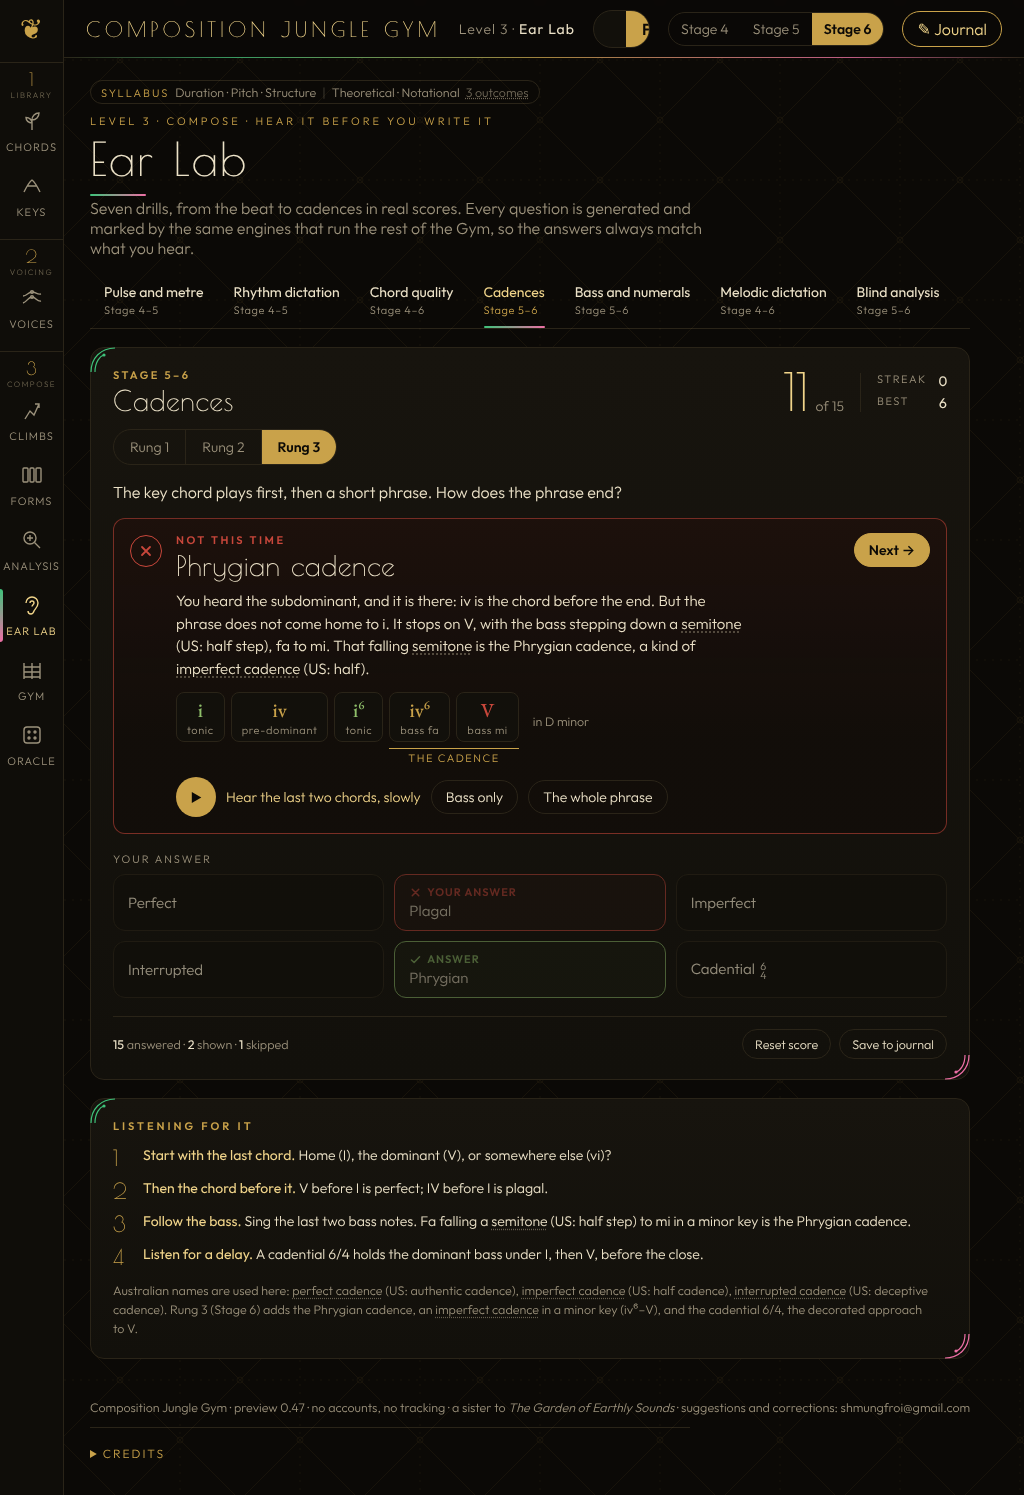
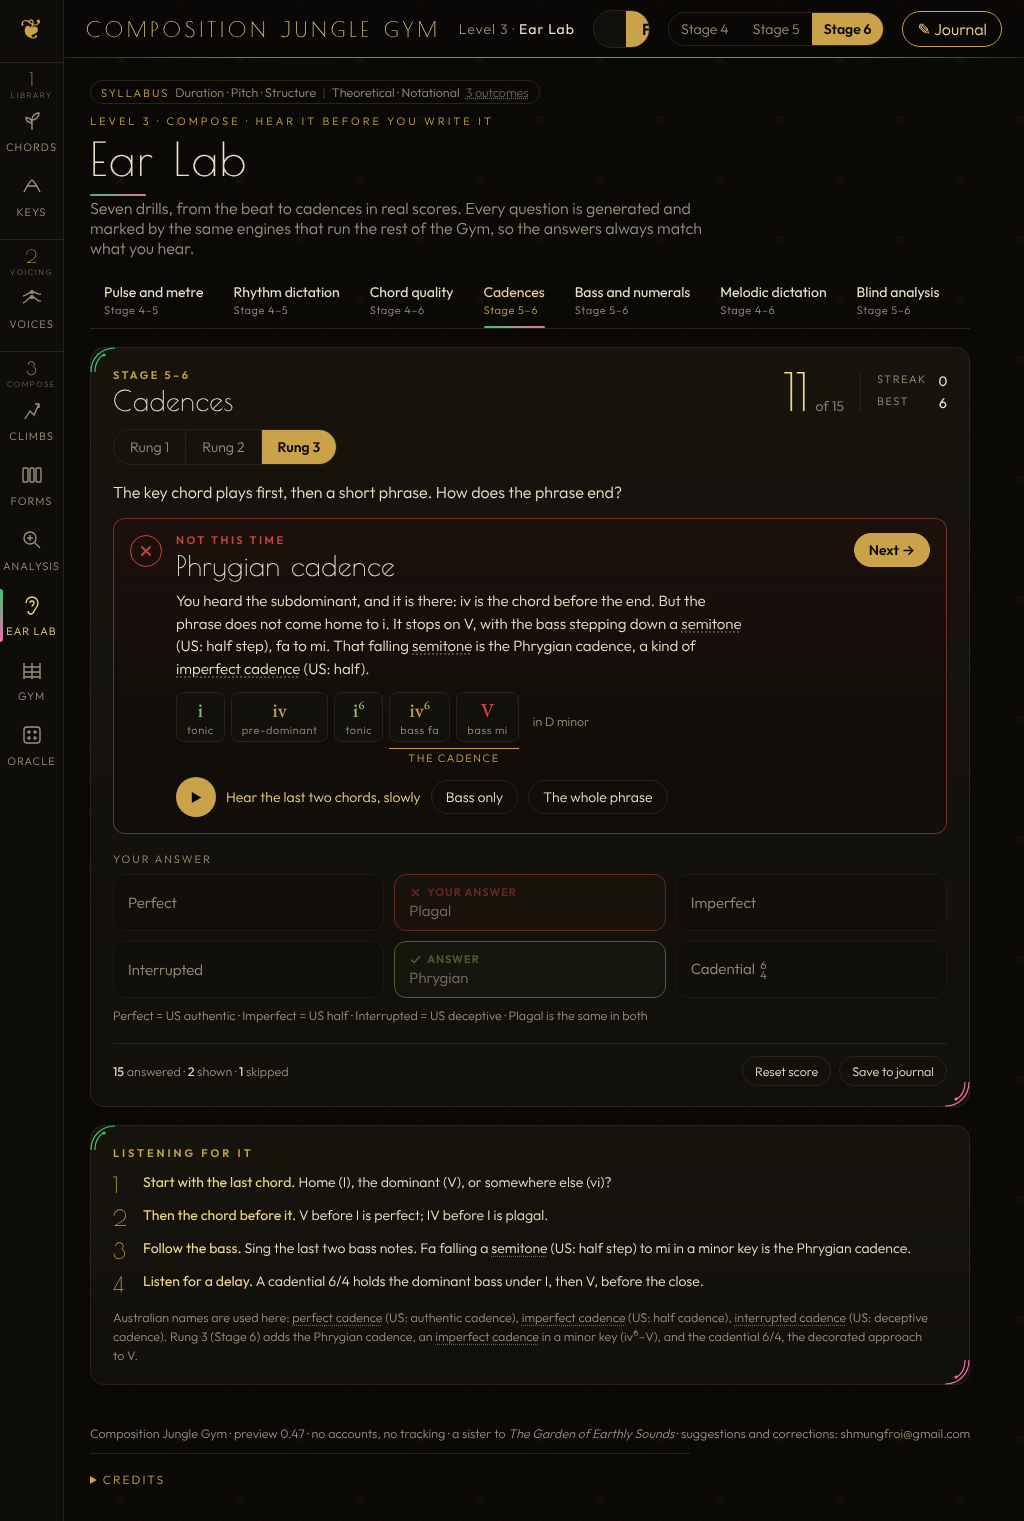
Ear Lab 0.48 UI: report, built screenshots (1440/1366/1024/390), terms_test exempts the cadence key line

diff --git a/tests/terms_test.py b/tests/terms_test.py
@@ -78,7 +78,7 @@ CHK_JS = r"""(RULE)=>{window.__TV=new Map();window.__TN={scans:0,abbr:0,buttons:
  const bracketed=a=>a.dataset.lit==='1'||(a.nextElementSibling&&a.nextElementSibling.classList.contains('tmus'))||!!a.closest('[data-notm]');
  window.__chk=function(where){termPass();const M=document.querySelector('main')||document.body;window.__TN.scans++;
   // T2: no US term on its own (rendered text outside scores, and every title that is not a US hover)
-  const tw=document.createTreeWalker(M,NodeFilter.SHOW_TEXT,{acceptNode:n=>n.parentElement&&n.parentElement.closest('svg,script,style,textarea')?NodeFilter.FILTER_REJECT:NodeFilter.FILTER_ACCEPT});
+  const tw=document.createTreeWalker(M,NodeFilter.SHOW_TEXT,{acceptNode:n=>n.parentElement&&n.parentElement.closest('svg,script,style,textarea,.el-key2')?NodeFilter.FILTER_REJECT:NodeFilter.FILTER_ACCEPT});
   let txt='',n;while((n=tw.nextNode()))txt+=n.nodeValue;
   const t=strip(txt),mm=US.exec(t);if(mm)add('T2',where+': "'+t.slice(Math.max(0,mm.index-50),mm.index+40)+'"');
   M.querySelectorAll('[title]').forEach(e=>{const ti=e.getAttribute('title').replace(/(^|\s*·\s*)US: [^·]*/g,' ');if(US.test(strip(ti)))add('T2',where+': title "'+e.getAttribute('title')+'"')});

diff --git a/tests/reports/EL_ui_report.md b/tests/reports/EL_ui_report.md
@@ -1,0 +1,56 @@
+# Ear Lab 0.48 card: UI report (branch 048-elui)
+
+All checks below are the builder's own self-checks. Fable reviews the built card against the mock-ups afterwards (screenshots: `design/earlab_048/built/png/`, 1440, 1366, 1024 and 390, from `design/earlab_048/built/shots.py`; every state loads with no page error and no sideways scroll at 390).
+
+Starting point: `git merge v0.48` into 048-elui was clean (no conflicts; R6 term helpers, rung-3 Australian names and the earlab_items fixtures came across unchanged). The first commit (51cf3cf) already held most of the card; this pass closed the gaps, rewired the tests to the new card, and added `tests/earlab_ui_test.py`.
+
+## Spec item -> what was built -> test -> result
+
+| Item | Built | Test | Result |
+|---|---|---|---|
+| EL-1 / EL-2 toggle, ring, dock | One `.el-play` toggle with real-duration ring, state text, variants, phone dock, `body.ear-sounding`. This pass: variants now precede Show me / Skip in the DOM (grid places them), so keyboard order is drill tabs, rungs, toggle, variants, Show me, Skip, answers. Ring keeps running under `prefers-reduced-motion` (global reduce rule overridden for `.arc`); spin, tally fade and dock slide stay off. | earlab_ui F, transport_test | pass |
+| EL-3 metre grid | Grid with rows Simple, Compound, Irregular (rung 3). Rung 3 shows 2/4 and 12/8 (Justin 3); generator pool equals the grid cells. Beat lane now switches to two bars a row from 6 units, so its numbers are never scaled below 11 px at 390. | earlab_ui B, earlab_items | pass |
+| EL-5 rhythm | One-line SVG stave, stick notation at rung 1, count-in ruler, sound strip, tiles. **RHYNAMES** (one table, tile-keyed) names every tile at every rung (Justin 4b); tile height 76 px holds the name. Names for rungs 2-3 are placeholders, marked `PENDING JUSTIN` in a code comment beside the table. | earlab_ui C | pass |
+| EL-8 feedback | Result panel, teaching sentences, chord row, replays, option marks (as first commit). | earlab_test, earlab_items, earlab_r2 | pass |
+| "Nearly" | Gold panel, wave mark, "NEARLY", gold `≈ YOUR ANSWER` on the chosen button, streak kept. Foot reads "15 answered · 2 nearly · 2 shown · 1 skipped" (per coordinator note; Nearly is not in "answered"). EAR_NEARLY untouched (false here). | earlab_ui G forces the flag on and restores it | pass |
+| EL-9 accessibility | Focus ring 2 px goldhi on every control reached by Tab; aria-pressed/labels on toggle, rungs, segments; tally `role=status` with spoken label; Esc and Space stop (also with the toggle focused, no restart); nothing under 11 px (this pass: the stacked 6/4 figures were 10.5 px, now `max(11px,.7em)`); targets >= 44 px at 390. | earlab_ui A and F | pass |
+| EL-10/11 | Drill strip, Stage tags ("Stage 4-5" for metre), rungs, show all, Reset with inline confirm and Undo. | earlab_items | pass |
+| EL-13 | Fixed option grids; bass chips; "Rung" only for drill levels, hand-sign rows are "notes". | earlab_items, earlab_ui | pass |
+| R5 | One `.el-tally` (score, of n, streak, best) in the Ear Lab, Keys "Hear it, name it" and "Sing it back"; old inline score text gone. | earlab_ui G | pass |
+| Justin 5 | Phone ladder rows 44 px, set by one variable `--lad-row` in `:root` (rows span two tracks, CSS halves it). | earlab_ui E (also changes it to 52 px and checks the rows follow) | pass |
+| Justin 7 | Key line under the cadence and blind-analysis answer buttons: "Perfect = US authentic · Imperfect = US half · Interrupted = US deceptive · Plagal is the same in both", 12.5 px muted, built from `termUS()` (shared list) by `elCadKeyHTML`; button `title`s come from the same list. Only names on offer appear. | earlab_ui D | pass |
+
+## Pass counts (final run, this worktree)
+
+| Suite | Result |
+|---|---|
+| layout_test | 162 views, 0 findings, no page errors |
+| pageerrors_test | 153 views, 0 errors |
+| score_measure_test | 294 scores, 0 findings |
+| transport_test | 42 items, 112 state checks, 0 fails |
+| earlab_test | 0 failures |
+| earlab_r2_test | 1666 checks, 0 failed |
+| earlab_items_test | 0 failures |
+| terms_test | 0 failures |
+| earlab_ui_test (new) | 367 checks, 0 failed |
+
+Retries: the first runs of pageerrors, transport (a one-off "state end vs last node stop" mismatch at 390 px rhythm rung 1, not reproduced on re-run) and terms failed or were killed while other agents had browsers open and while the harness was broken; each was re-run alone and passed. terms_test failed once for a real reason (below) and passed after the change.
+
+## Fixes made along the way
+
+- `renderEar` drops a question that belongs to another drill (a drill changed from a link or a test), which was throwing in `keyName` and `earDo`.
+- Tests moved to the new card: `[data-earnew]` falls back to the Play toggle when no question is open; `[data-earstop]` is the toggle; `.earres`, `.earstat`, `.eartabs` became `.el-result`, `.el-foot`, `.el-drill`; wording expectations follow the teaching sentences; skip tests set `plays=1` (a question is skipped only once played, per spec section 4); `earTips()` no longer exists so earlab_test reads `ELTIPS` and `ELTIPNOTE`. earlab_items_test lacked `import re` (already so in v0.48); added.
+
+## Deviations and why
+
+1. terms_test T2 now skips `.el-key2`. The rule "no US term on its own" would otherwise flag Justin's literal key line "Perfect = US authentic".
+2. Nearly is not counted in "answered" (engine and coordinator note) although spec section 4's table says n +1. Followed the coordinator and Justin's "not scored".
+3. The key line adds "Plagal is the same in both" (Justin 7, "plus Plagal is the same in both"). Say if that should go.
+4. A new suite (`earlab_ui_test`) was added to `run_all`.
+
+## Gaps and open items
+
+- RHYNAMES rung 2-3 names are placeholders (tika-tika, sa, tam-ti, ti-tika, tika-ti, syn-co-pa). `tim-ka` and `ta-a-a-a` from the brief have no cell yet, so they are not in the table.
+- Phone ladder is 44 px rows (about 400 px tall at rung 2-3) pending Justin's view of the alternative.
+- Not verified on a real phone: the dock position over the tab bar and iOS safe-area (checked only in headless Chrome at 390 x 844).
+- The built screenshots set up states through the real app; the Nearly state sets EAR_NEARLY for the one render only.
